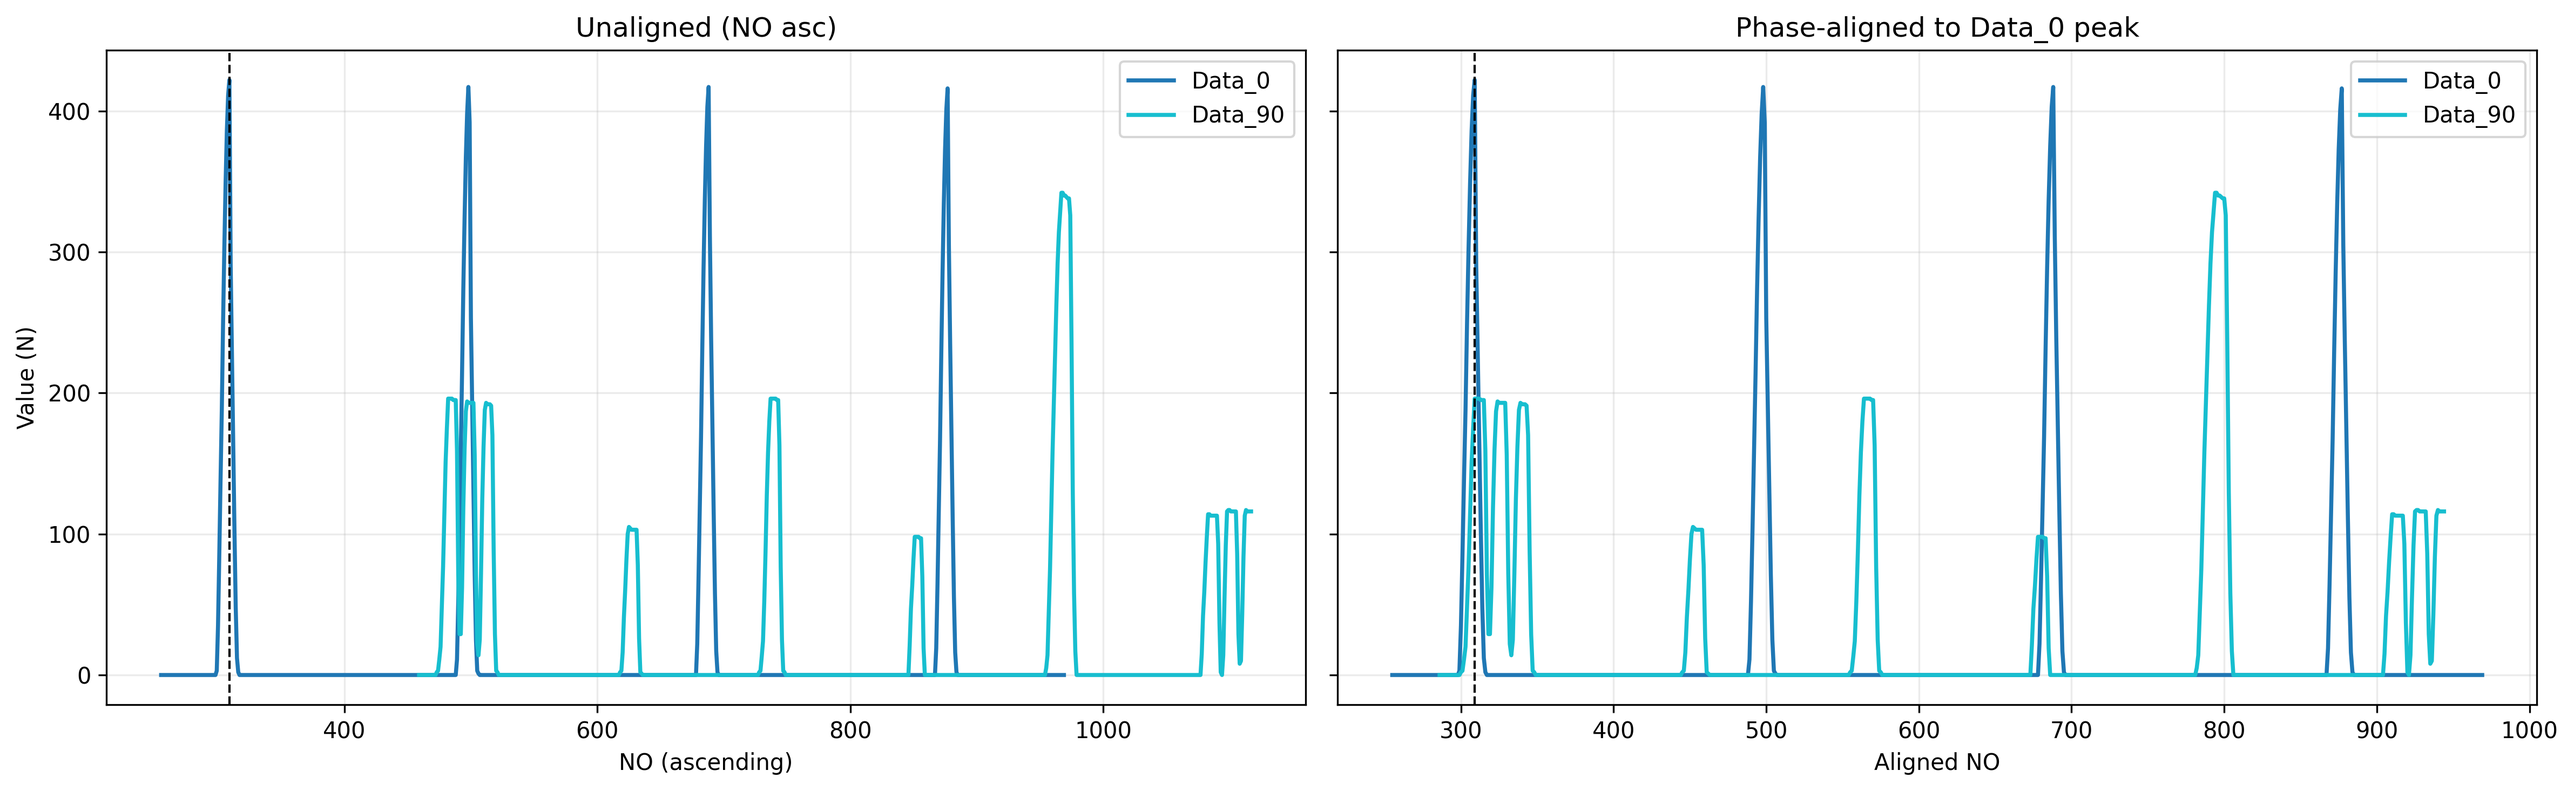
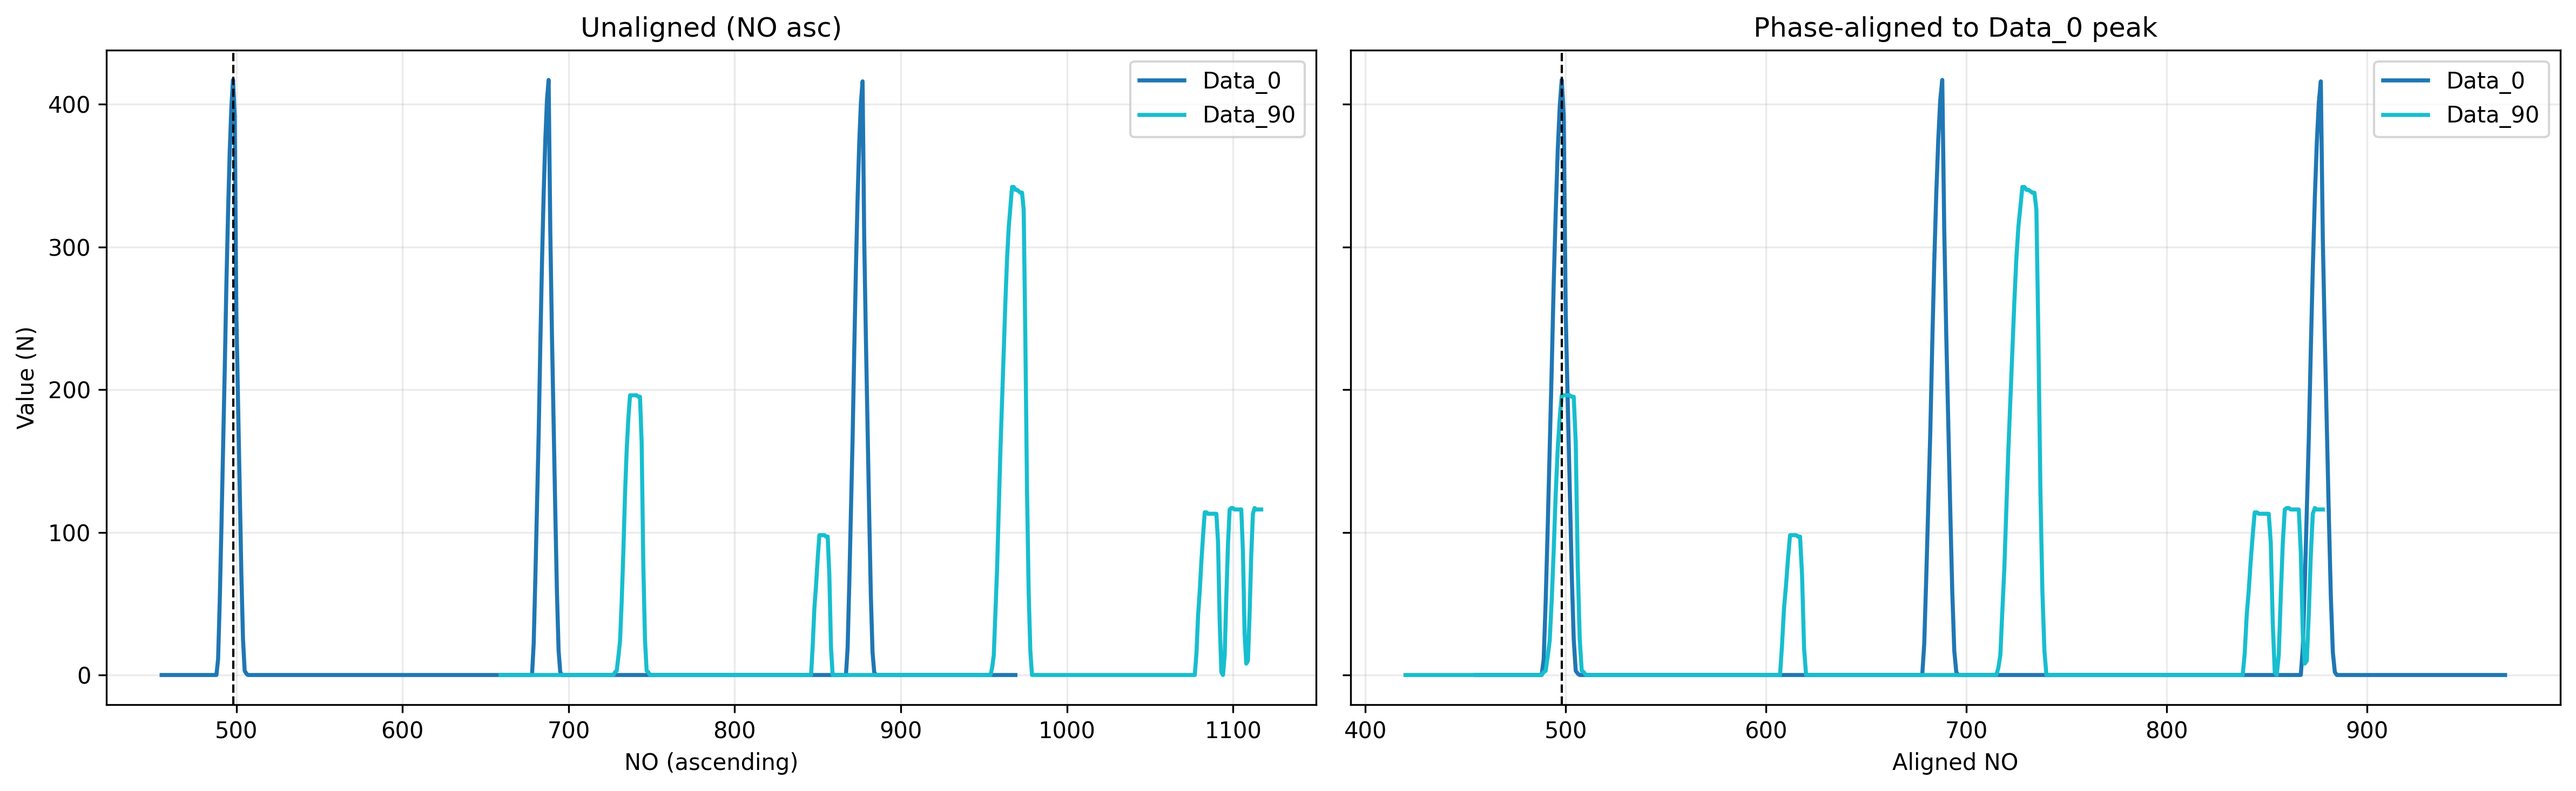
[CSV_reader] 20260313 17:23

diff --git a/RealData/CSV_reader.py b/RealData/CSV_reader.py
@@ -37,6 +37,9 @@ def load_and_clean(csv_path):
 
     # NO는 원래 내림차순일 수 있으니 오름차순 정렬
     df = df.sort_values("NO").reset_index(drop=True)
+
+    # 초기 불안정 샘플 제거 (앞 200개 행)
+    df = df.iloc[200:].reset_index(drop=True)
     return df
 
 def find_first_periodic_peak(x, y):
